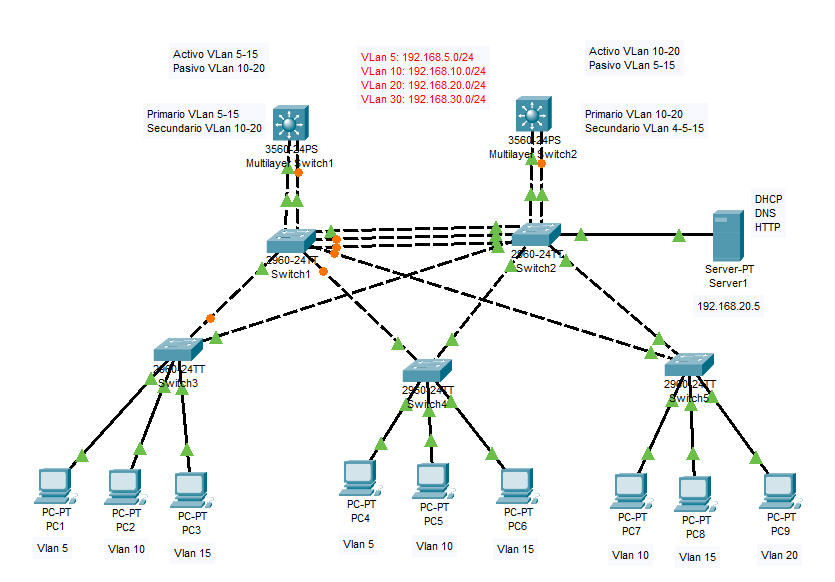
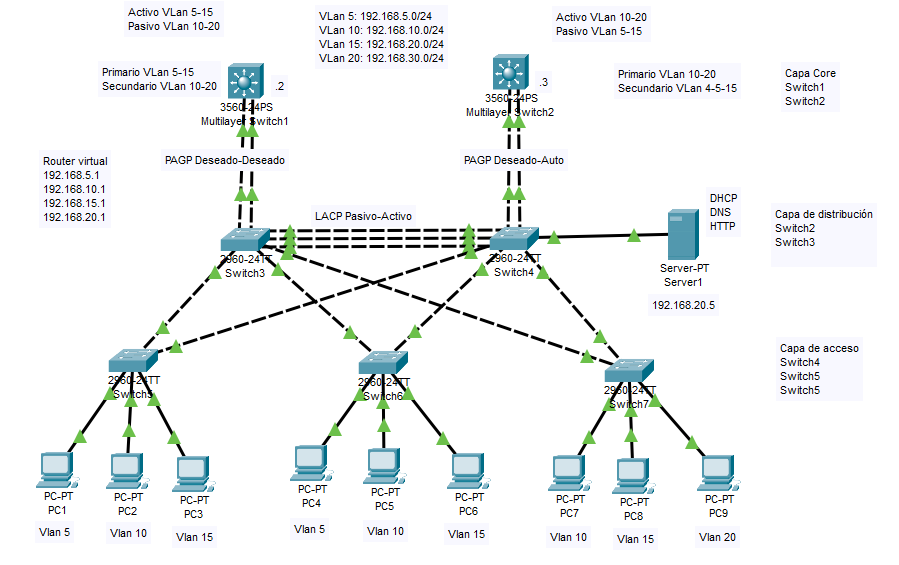
router virtual.

diff --git a/Redes/Cisco/Actividades/4.5.- STP EtherChannel HSRP.md b/Redes/Cisco/Actividades/4.5.- STP EtherChannel HSRP.md
@@ -85,7 +85,7 @@ Switch5(config-if-range)#switchport mode trunk
 Switch5(config-if-range)#switchport nonegotiate
 ```
 
-Con el comando *switchport nonegotiate* desabilitamos el protocolo DTP.
+Con el comando *switchport nonegotiate* deshabilitamos el protocolo DTP.
 
 ### Configuramos el Switch 6 y 7
 
@@ -349,6 +349,12 @@ Switch2(config)#spanning-tree vlan 20 priority 24576
 
 Se va a generar un router virtual con las IPs 192.168.5.1, 192.168.10.1, 192.168.15.1 y 192.168.20.1
 
+Habilitamos el enrutamiento
+
+``` cisco ios
+Switch2(config)#ip routing
+```
+
 ### Configuramos interface vlan el Switch 1
 
 ### Configuramos la VLAN 5 en Switch 1
@@ -449,6 +455,12 @@ Switch1(config-if)#standby 20 preempt
 
 Configuramos de forma similar el Switch 2, pero ahora tien priorida alta la vlan 10 y 20 y prioridad baja las vlan 5 y 15. Las  vlan tien las IP's .3, y mantenemos las mismas IP's para el router virtual.
 
+Habilitamos el enrutamiento
+
+``` cisco ios
+Switch2(config)#ip routing
+```
+
 ### Configuramos la VLAN 5 en Switch 2
 
 ``` cisco ios
@@ -528,7 +540,7 @@ Switch2(config)#interface vlan20
 Switch2(config-if)#
 %LINK-5-CHANGED: Interface Vlan20, changed state to up
 %LINEPROTO-5-UPDOWN: Line protocol on Interface Vlan15, changed state to up
-Switch2(config-if)#ip address 192.168.10.3 255.255.255.0
+Switch2(config-if)#ip address 192.168.20.3 255.255.255.0
 ```
 
 Nota: En este caso no hace falta el comando helper-address porque los dispositivos de la vlan20 conectaran con la ip 192.168.20.5
@@ -545,111 +557,69 @@ Switch2(config-if)#standby 20 preempt
 
 ## Configuramos el servidor
 
+Configuramos el protocolo IP del serivdor con
 
+| IP Address         | 192.168.20.5  |
+|--------------------|--------------:|
+| Subnet Mask        | 255.255.255.0 |
+| Default Gateway    | 192.168.20.1  |
+| DNS Server         | 192.168.20.5  |
 
+### Configuración del DHCP
 
-<!-- ``` cisco ios
-Switch0>
-Switch0>show spanning-tree
-VLAN0001
-  Spanning tree enabled protocol rstp
-  Root ID    Priority    32769
-             Address     0003.E4AD.E43C
-             Cost        8
-             Port        25(GigabitEthernet0/1)
-             Hello Time  2 sec  Max Age 20 sec  Forward Delay 15 sec
+Ahora configuramos el servicio DHCP, con los siguientes Pool.
 
-  Bridge ID  Priority    32769  (priority 32768 sys-id-ext 1)
-             Address     0005.5E00.26EA
-             Hello Time  2 sec  Max Age 20 sec  Forward Delay 15 sec
-             Aging Time  20
+| Pool Name     | Default gateway  | NSN Server    | Start Ip Addres  | Subnet Mask | Max Users |
+| ---------     | ---------        | ---------     | ---------        | --------- | --------- |
+| vlan5         | 192.168.5.1      | 192.168.20.5  | 192.168.5.30     | 255.255.255.0 | 100 |
+| vlan10        | 192.168.10.1     | 192.168.20.5  | 192.168.10.30    | 255.255.255.0 | 100 |
+| vlan15        | 192.168.15.1     | 192.168.20.5  | 192.168.15.30    | 255.255.255.0 | 100 |
+| serverPool    | 192.168.20.1     | 192.168.20.5  | 192.168.20.30    | 255.255.255.0 | 100 |
 
-Interface        Role Sts Cost      Prio.Nbr Type
----------------- ---- --- --------- -------- --------------------------------
-Fa0/1            Desg FWD 19        128.1    P2p
-Fa0/2            Desg FWD 19        128.2    P2p
-Gi0/1            Root FWD 4         128.25   P2p
-Gi0/2            Altn BLK 4         128.26   P2p
-```
+### Configuramos el DNS
 
-``` cisco ios
-Switch0>
-Switch0>show spanning-tree active
-VLAN0001
-  Spanning tree enabled protocol rstp
-  Root ID    Priority    32769
-             Address     0003.E4AD.E43C
-             Cost        8
-             Port        25(GigabitEthernet0/1)
-             Hello Time  2 sec  Max Age 20 sec  Forward Delay 15 sec
+Introducimos los registros que veamos oportunos en el DNS, por ejemplo:
 
-  Bridge ID  Priority    32769  (priority 32768 sys-id-ext 1)
-             Address     0005.5E00.26EA
-             Hello Time  2 sec  Max Age 20 sec  Forward Delay 15 sec
-             Aging Time  20
+| Type     | Name  | Address
+| :---------:     | :---------    | ---------:
+| A        | practica.com         | 192.168.20.5
+| A        | www.practica.com     | 192.168.20.5
 
-Interface        Role Sts Cost      Prio.Nbr Type
----------------- ---- --- --------- -------- --------------------------------
-Fa0/1            Desg FWD 19        128.1    P2p
-Fa0/2            Desg FWD 19        128.2    P2p
-Gi0/1            Root FWD 4         128.25   P2p
-Gi0/2            Altn BLK 4         128.26   P2p
-```
+### Configura vlan de acceso al Servidor
 
-Podemos ver que el interfaz Gi0/1 está configurado como Root y el Gi0/2 está bloqueado.
-
-## Damos un nombre a los switch
+Para poder acceder al servidor desde el switch 4 debemos asociar la vlan 20 a un puerto.
 
 ``` cisco ios
-Switch>enable
-Switch#configure terminal
-Switch(config)#hostname Switch1
-Switch1(config)#end
-Switch1#
+Switch4(config)#interface fastethernet 0/20
+Switch4(config-if)#switchport mode access
+Switch4(config-if)#switchport access vlan 20
 ```
 
-## Deshabilitar STP
-
-Buscamos el switch que está bloqueado un puerto y podemos deshabilitar STP en los router de la forma.
+Tambien podemos indicar que el dispositivo es un Host, o dispositivo final, con lo que nunca negociara que es un enlace troncal.
 
 ``` cisco ios
-Switch1>enable
-Switch1#configure terminal
-Switch1(config)#no spanning-tree vlan 1
-Switch1(config)#end
-Switch1#
+Switch4(config-if)#spanning-tree portfast
+Switch4(config-if)#spanning-tree bpduguard enable
 ```
 
-De esta forma, no se bloquean los puertos,
-pero podemos ver que los paquetes entran en bucle y no llegan a su destino.
+## Comprobaciones
 
-Configuramos los switch
+Desde el serivdor has de poder hacer Ping las IP's
 
-``` cisco ios
-Switch>enable
-Switch#configure terminal
-Switch(config)#hostname Switch1
-Switch1(config)#spanning-tree mode rapid-pvst
-Switch1(config)#no spanning-tree vlan 1
-Switch1(config)#end
-Switch1#
-```
+| IP     |
+| :---------:    |
+| 192.168.20.5   |
+| 192.168.20.2   |
+| 192.168.20.3   |
+| 192.168.20.1   |
+| 192.168.5.2    |
+| 192.168.5.3    |
+| 192.168.5.1    |
+| 192.168.10.2   |
+| 192.168.10.3   |
+| 192.168.10.1   |
+| 192.168.15.2   |
+| 192.168.15.3   |
+| 192.168.15.1   |
 
-STP (Spanning Tree Protocol) tiene cuatro estados. Estos estados STP son; Bloqueo, escucha, aprendizaje y reenvío. Con RSTP (Rapid Spanning Tree Protocol), se omite el estado de Spanning Tree Blocking y Listenning. El RSTP establece que a partir de descartado, pasar por el aprendizaje y el reenvío.
-
-En STP (Spanning Tree Protocol),el estado de bloqueo es de 20 segundos,el estado de escucha es de 15 segundos y el estado de aprendizaje es de 15 segundos. Por lo tanto, para STP, pasar por los estados de reenvío necesita 50 segundos. Este tiempo total es de 15 segundos en RSTP (Rapid Spanning Tree Protocol). Porque RSTP, omite los estados Bloqueo y Escucha.
-
-## Probar direcciones MAC desde el PC
-
-Podemos ver la tabla de direcciones MAC que tiene almacenada un PC con el comando arp.
-
-``` cmd
-C:\>arp -a
-  Internet Address      Physical Address      Type
-  192.168.0.6           0006.2ac5.299e        dynamic
-```
-
-## Experimento
-
-Probar a deshabilitar STP en todos los switch de lar red y veremos que el trafico
-de red aumenta sin control y no se puede configurar ningún HOST. -->
+Comprueba que cada PC ha obtenido una IP de la red indicada y que accede a todos los dispositivos virtuales y el servidor.
